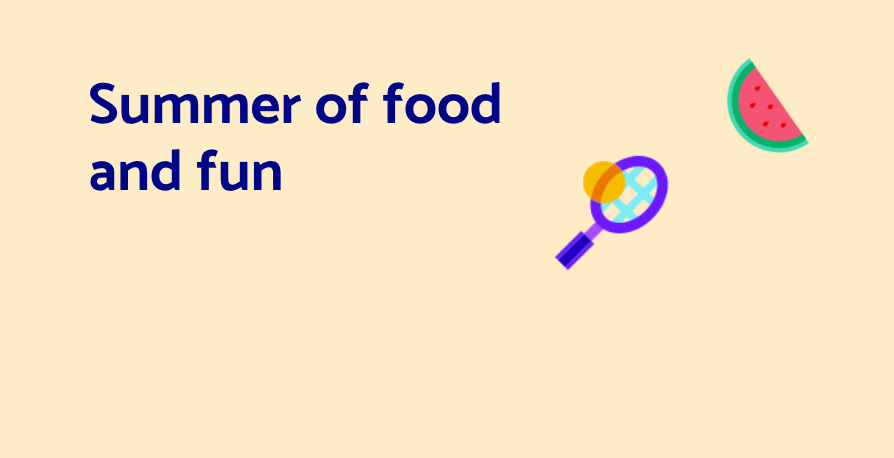
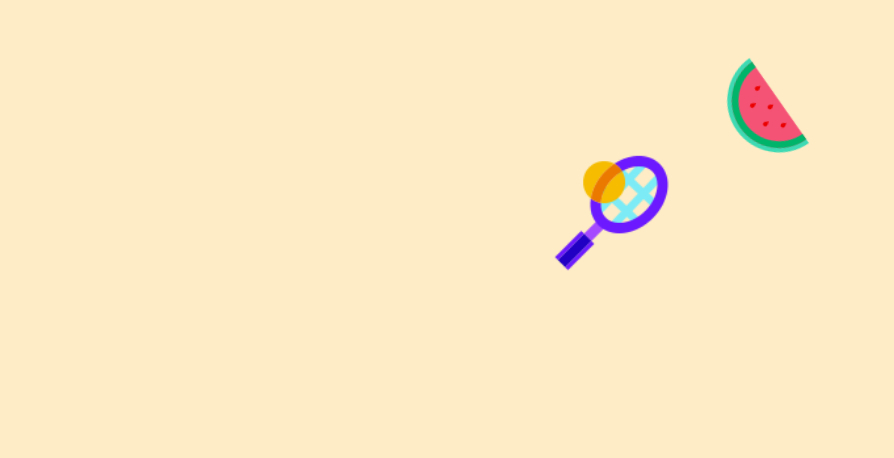
feat: image text for fall backs added based on condition and styled

Changed region(s): [[0.0906, 0.1834, 0.5738, 0.2751], [0.0906, 0.3057, 0.3322, 0.4279]]

diff --git a/src/Components/Card.tsx b/src/Components/Card.tsx
@@ -51,10 +51,18 @@ const ServiceName = styled.p`
 `
 
 const ImageText = styled(ServiceName)`
+  font-family: 'Catamaran', sans-serif;
+  font-size: 28px;
+  line-height: 100%;
   position: absolute;
   left: 1rem;
-  top: 50%;
-  transform: translateY(-50%);
+  top: 1.5rem;
+  z-index: 1;
+
+  ${(props) => props.theme.screenSizes.smallPhoneOnly} {
+    font-size: 22px;
+    top: 2.5rem;
+  }
 `
 
 const Description = styled.h2`
@@ -145,7 +153,9 @@ export const Card = React.forwardRef(function Card(
 
       <ImageContainer>
         {image?.image.includes('fidfallback_') && (
-          <ImageText>Banner will go here</ImageText>
+          <ImageText>
+            Summer of food <br></br> and fun
+          </ImageText>
         )}
         {image?.image && (
           <Image

diff --git a/cms/services.ts b/cms/services.ts
@@ -174,7 +174,7 @@ const fixtureDirectory = path.join(process.cwd(), './fixtures')
 
 export function getServices(): Array<Service> {
   // This will be re-enabled when the source files are received from emails
-  //createMarkdownFromCSV(true)
+  createMarkdownFromCSV(true)
 
   const fileNames = fs.readdirSync(contentDirectory)
 

diff --git a/content/services/old-library-youth-club-11431.md b/content/services/old-library-youth-club-11431.md
@@ -4,8 +4,8 @@ fidId: 11431
 title: Rathbone Summer Fit And Fun Activities Programme
 shortDescription: Rathbone Summer Fit And Fun Activities Programme + description
 image:
-  image: img/fid_placeholder.png
-  imageAlt: ""
+  image: "img/fidfallback_1.jpg"
+  imageAlt: "Family Information Directory fallback image"
 interests: ["Cooking","Art and Design"]
 feelings:
 description: "A fun packed summer programme filled with a diverse range of sports and other physical activities suitable for all abilities. Young people will have the opportunity to participate in creative arts and crafts, digital and social media workshops, music and indoor games. At the heart of our programme will be our 'Chef and Share' cooking sessions, young people will prepare a healthy balanced meal that all young people will sit down to eat. The menu will be planned weekly utilizing our Phunky food nutritional resource and eat well meal planning guide.

diff --git a/content/services/lifelong-family-links-11476.md b/content/services/lifelong-family-links-11476.md
@@ -4,8 +4,8 @@ fidId: 11476
 title: Summer HAF Lifelong Family Links
 shortDescription: Summer HAF Lifelong Family Links + description
 image:
-  image: img/fid_placeholder.png
-  imageAlt: ""
+  image: "img/fidfallback_2.jpg"
+  imageAlt: "Family Information Directory fallback image"
 interests: ["Sports","Cooking","Gaming"]
 feelings:
 description: "Activities will include cycling at our partner organisation Wheels for Well-being, bowling, swimming, football, gym work, boating at Crystal Palace Boating Lake and adventure playground sessions at Willington Road. We will also offer fruit picking sessions and visits to Godstone Farm where participants will be encouraged to interact with the animals. In addition to our trained play staff, we will be using trained disability sports coaches from Active Living, Disability Sport Coach and Lambeth Sport.

diff --git a/content/services/kennington-park-community-centre-11453.md b/content/services/kennington-park-community-centre-11453.md
@@ -4,8 +4,8 @@ fidId: 11453
 title: KPCC's Summer Of Fun And Food 2022
 shortDescription: KPCC's Summer Of Fun And Food 2022 + description
 image:
-  image: img/fid_placeholder.png
-  imageAlt: ""
+  image: "img/fidfallback_3.jpg"
+  imageAlt: "Family Information Directory fallback image"
 interests: ["Drama","Music","Art and Design"]
 feelings:
 description: "KPCC and our partners, Simply Smiley Productions, will be offering a programme of fun and creative activities 4 days a week for 5 weeks this summer. A free, healthy hot lunch, cooked on-site, as well as fruit and snacks, will be provided every day; and at the end of the week children will be invited to ‘shop’ for food kindly donated by the Felix Project to take home with them. 

diff --git a/content/services/high-trees-community-development-trust-11471.md b/content/services/high-trees-community-development-trust-11471.md
@@ -4,8 +4,8 @@ fidId: 11471
 title: Tulse Hill Adventure Playground Summer Playscheme
 shortDescription: Tulse Hill Adventure Playground Summer Playscheme + description
 image:
-  image: img/fid_placeholder.png
-  imageAlt: ""
+  image: "img/fidfallback_2.jpg"
+  imageAlt: "Family Information Directory fallback image"
 interests: ["Sports","Cooking","Outdoor Activities"]
 feelings:
 description: "Open access holiday play sessions with activities including cooking, adventure play, forest school, multi sports, water fights, table tennis, woodwork, hair and beauty workshop, roller-skating and much more. Additional optional trips out including kayaking, water wipe out, flip out, BMX riding and a trip to the seaside.

diff --git a/content/services/omnibus-clapham-11436.md b/content/services/omnibus-clapham-11436.md
@@ -4,8 +4,8 @@ fidId: 11436
 title: Routes With Omnibus Theatre
 shortDescription: Routes With Omnibus Theatre + description
 image:
-  image: img/fid_placeholder.png
-  imageAlt: ""
+  image: "img/fidfallback_1.jpg"
+  imageAlt: "Family Information Directory fallback image"
 interests: ["Drama"]
 feelings:
 description: "Alongside receiving breakfast, lunch and healthy snacks, 15 to 20 young people work together under the guidance of our facilitators to create their own production which they perform to friends and family at the end of the week in our Theatre. The aims for the week are simple; to have fun, work as a team, challenge yourself and use your imagination!

diff --git a/content/services/the-kinetika-bloco-11455.md b/content/services/the-kinetika-bloco-11455.md
@@ -4,8 +4,8 @@ fidId: 11455
 title: Kinetika Bloco Senior Summer School
 shortDescription: Kinetika Bloco Senior Summer School + description
 image:
-  image: img/fid_placeholder.png
-  imageAlt: ""
+  image: "img/fidfallback_3.jpg"
+  imageAlt: "Family Information Directory fallback image"
 interests: ["Music"]
 feelings:
 description: "Kinetika Bloco Senior Summer School brings young people together to learn and play brass and woodwind, steel pans, drums and dance to create a spectacular costumed show. Over 10 days we will learn music together and develop creative and social skills and then perform on the final day to a huge audience at the Royal Festival Hall. 

diff --git a/content/services/autism-voice-11408.md b/content/services/autism-voice-11408.md
@@ -4,8 +4,8 @@ fidId: 11408
 title: Summer Holiday Food And Fun Activities For Autistic Children
 shortDescription: Summer Holiday Food And Fun Activities For Autistic Children + description
 image:
-  image: img/fid_placeholder.png
-  imageAlt: ""
+  image: "img/fidfallback_1.jpg"
+  imageAlt: "Family Information Directory fallback image"
 interests: ["Cooking","Music","Art and Design","Outdoor Activities"]
 feelings:
 description: "We will provide the following activities: indoor and outdoor sports, arts and crafts, music and dance, food matters workshop, Lego therapy, Free play, Sensory activities, Water play, Messy play, Gardening, Nature walk and Trips out. 

diff --git a/content/services/lerato-community-initiative-11475.md b/content/services/lerato-community-initiative-11475.md
@@ -4,8 +4,8 @@ fidId: 11475
 title: Lerato Summer Camp
 shortDescription: Lerato Summer Camp + description
 image:
-  image: img/fid_placeholder.png
-  imageAlt: ""
+  image: "img/fidfallback_3.jpg"
+  imageAlt: "Family Information Directory fallback image"
 interests: ["Sports","Music","Outdoor Activities"]
 feelings:
 description: "Daily Multi-sports, including badminton and rounders, arts and crafts, indoor and outdoor play, table games Baking, Tie-dye & music workshops. Trip to Stubbers Adventure Centre in Essex for water sports, climbing & target sports, trip to Gravity for e-karting & bowling, talent show. Time to just relax, socialise and make new friends.

diff --git a/content/services/big-up-communities-11465.md b/content/services/big-up-communities-11465.md
@@ -4,8 +4,8 @@ fidId: 11465
 title: Big Up Communities At The Stewarts Road Adventure Playground Summer Playscheme
 shortDescription: Big Up Communities At The Stewarts Road Adventure Playground Summer Playscheme + description
 image:
-  image: img/fid_placeholder.png
-  imageAlt: ""
+  image: "img/fidfallback_2.jpg"
+  imageAlt: "Family Information Directory fallback image"
 interests: ["Outdoor Activities"]
 feelings:
 description: "We will be running a summer playscheme for young people aged 8 to 16 years. Activities include adventure play, football, basketball, organised games, music production, MMA fitness and art and crafts.

diff --git a/content/services/brixton-topcats-11478.md b/content/services/brixton-topcats-11478.md
@@ -4,8 +4,8 @@ fidId: 11478
 title: Brixton Topcats Summer Basketball Camp
 shortDescription: Brixton Topcats Summer Basketball Camp + description
 image:
-  image: img/fid_placeholder.png
-  imageAlt: ""
+  image: "img/fidfallback_3.jpg"
+  imageAlt: "Family Information Directory fallback image"
 interests: ["Sports"]
 feelings:
 description: "Brixton Topcats Summer Basketball Camp provides fun and engaging basketball sessions for children and young people aged 5 - 15. Topcats have been running their summer basketball camps for over three decades. This year our camps will be delivered by our team of highly experienced coaches. 
